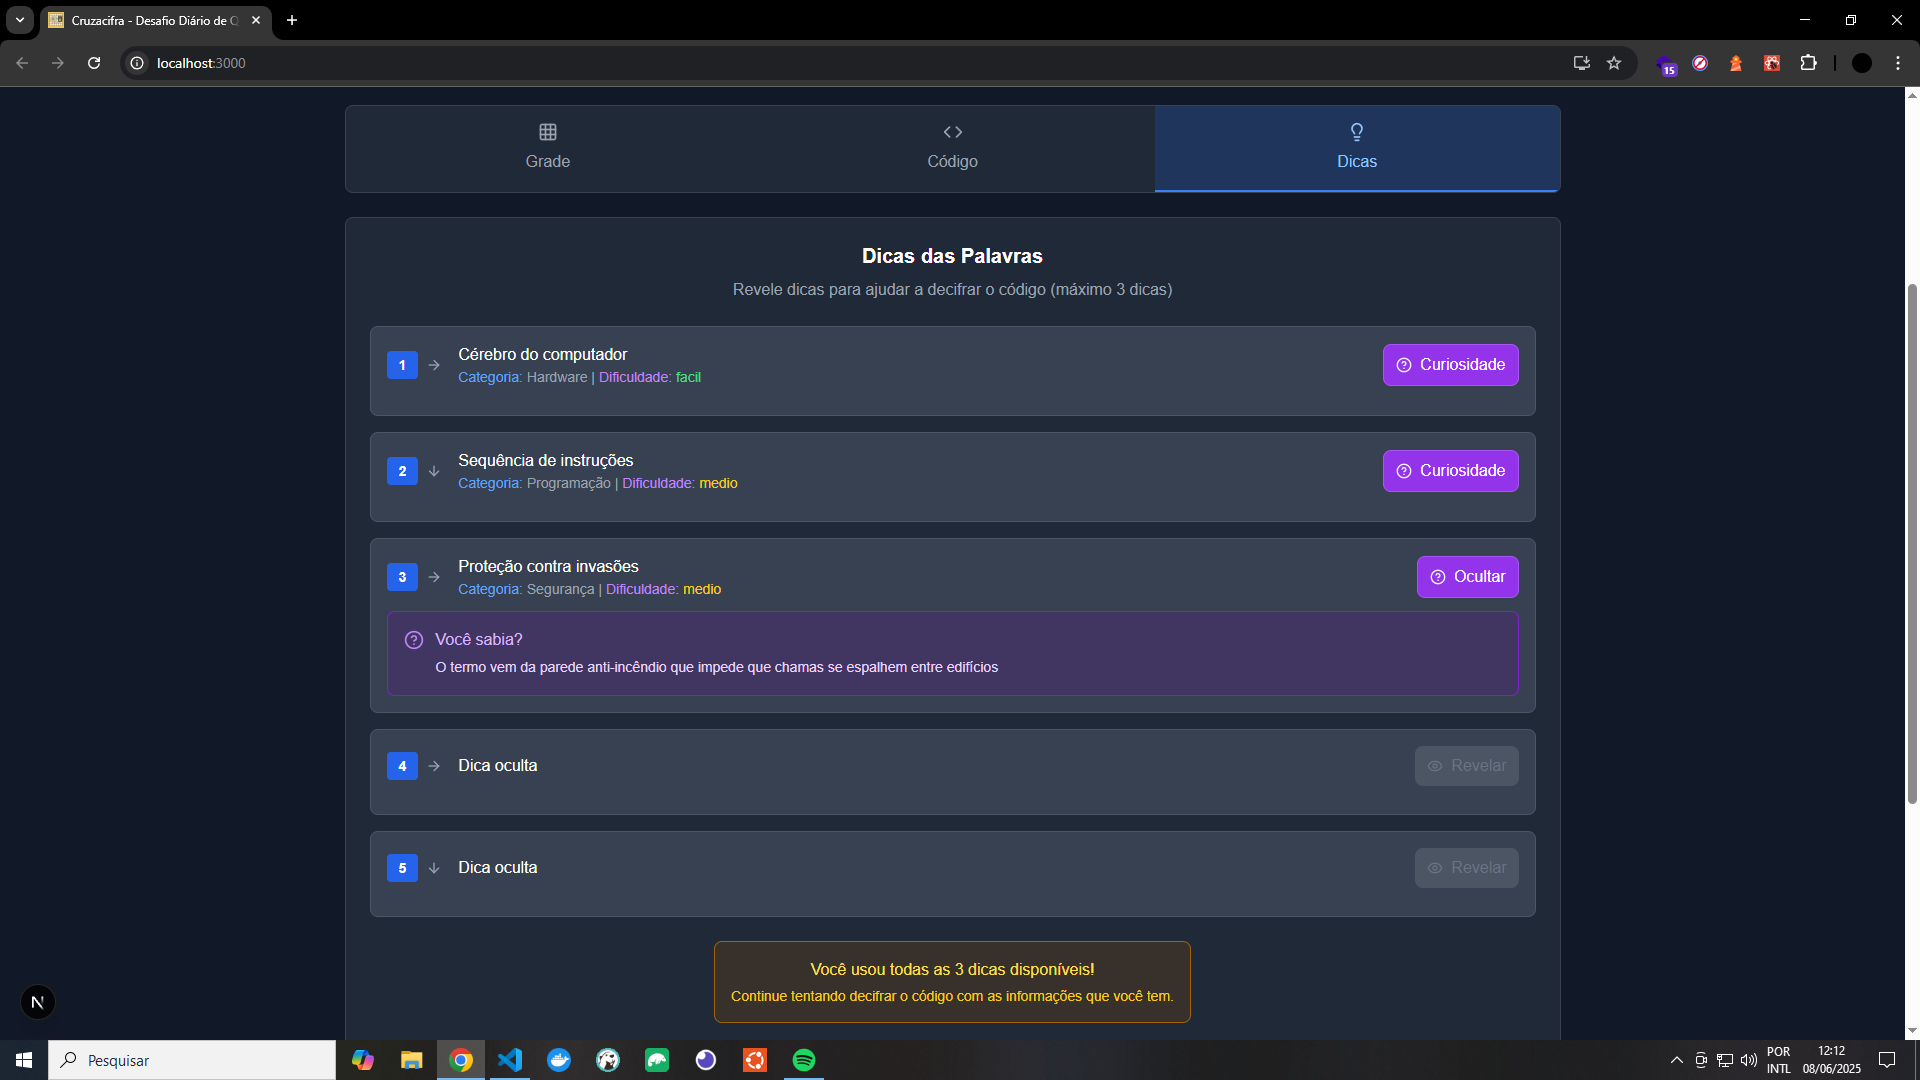
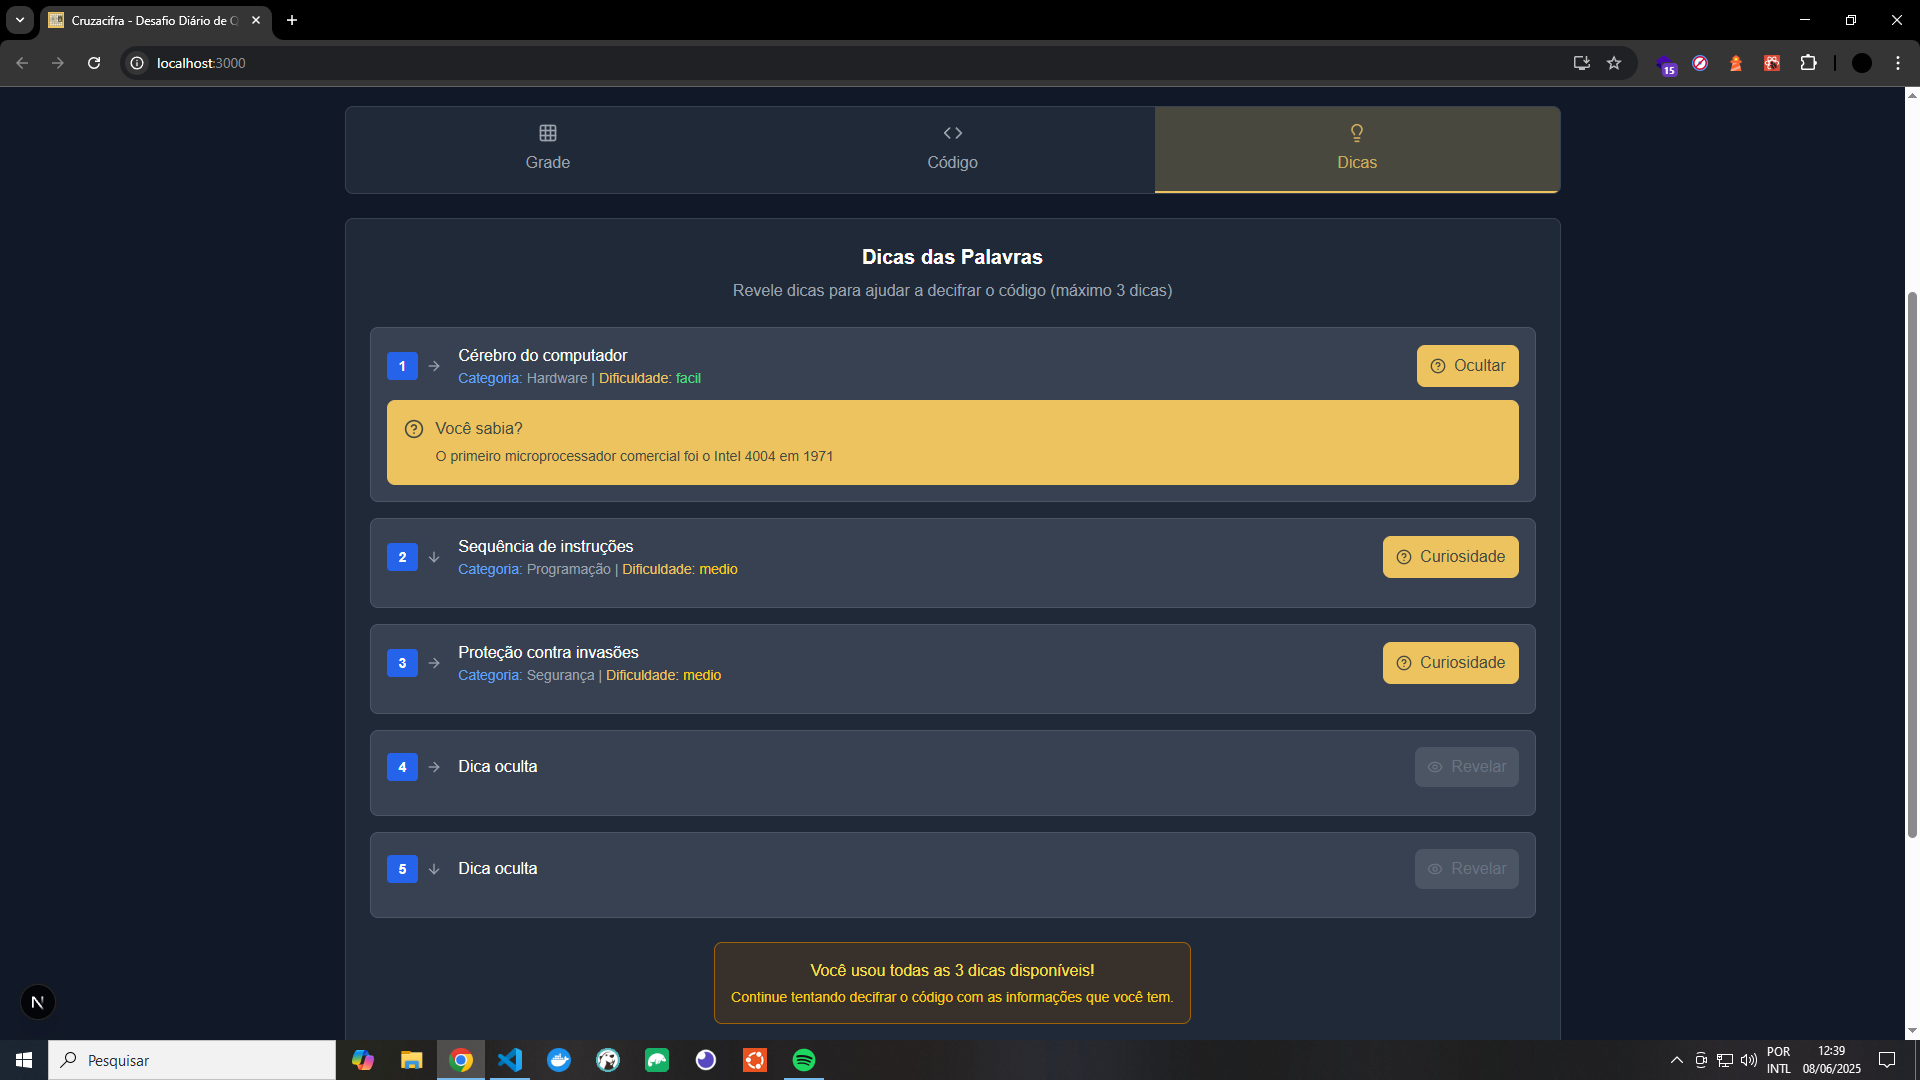
style: tabs add colors

diff --git a/components/game/game-header.tsx b/components/game/game-header.tsx
@@ -37,11 +37,11 @@ export function GameHeader({
       {/* Estatísticas */}
       <div className="grid grid-cols-2 md:grid-cols-4 gap-4">
         <div className="bg-gray-800 border border-gray-700 rounded-lg p-4 text-center">
-          <div className="text-2xl font-bold text-blue-400 mb-1">{progresso}%</div>
+          <div className="text-2xl font-bold text-[#edc360] mb-1">{progresso}%</div>
           <div className="text-sm text-gray-400 mb-2">Progresso</div>
           <div className="w-full bg-gray-700 rounded-full h-2">
             <div
-              className="bg-blue-500 h-2 rounded-full transition-all duration-500"
+              className="bg-[#edc360] h-2 rounded-full transition-all duration-500"
               style={{ width: `${progresso}%` }}
             />
           </div>

diff --git a/components/game/game-tabs.tsx b/components/game/game-tabs.tsx
@@ -25,7 +25,7 @@ export function GameTabs({ abaSelecionada, setAbaSelecionada }: GameTabsProps) {
               onClick={() => setAbaSelecionada(tab.id)}
               className={`flex-1 px-6 py-4 text-center transition-colors border-b-2 ${
                 abaSelecionada === tab.id
-                  ? "border-blue-500 bg-blue-600/20 text-blue-300"
+                  ? "border-[#edc360] bg-[#edc360]/20 text-[#edc360]/80"
                   : "border-transparent text-gray-400 hover:text-white hover:bg-gray-700"
               }`}
             >

diff --git a/README.md b/README.md
@@ -22,10 +22,11 @@ Open [http://localhost:3000](http://localhost:3000) with your browser to see the
 
 ![Logo](docs/logo.png "logo")
 
-Palavras Cruzadas Codificadas é um desafio diário de lógica onde você precisa decifrar um código secreto para revelar as palavras cruzadas corretas. A cada dia, um novo tema é revelado (como “Frutas”), e as letras embaralhadas precisam ser trocadas até que todas as palavras façam sentido. Use dicas, raciocínio e estratégia para completar o tabuleiro!
+Cruzacifra é um tipo de palavras cruzadas só que codificadas é um desafio diário de lógica onde você precisa decifrar um código secreto para revelar as palavras cruzadas corretas. A cada dia, um novo tema é revelado (como “Frutas”), e as letras embaralhadas precisam ser trocadas até que todas as palavras façam sentido. Use dicas, raciocínio e estratégia para completar o tabuleiro!
 
 ## 🖼 Preview
 ![Screen 1](docs/preview.png "Screen 1")
+![Screen 2](docs/image.png "Screen 2")
 ![Screen 2](docs/image1.png "Screen 2")
 ![Screen 3](docs/image2.png "Screen 3")
 ![Screen 3](docs/image3.png "Screen 3")
